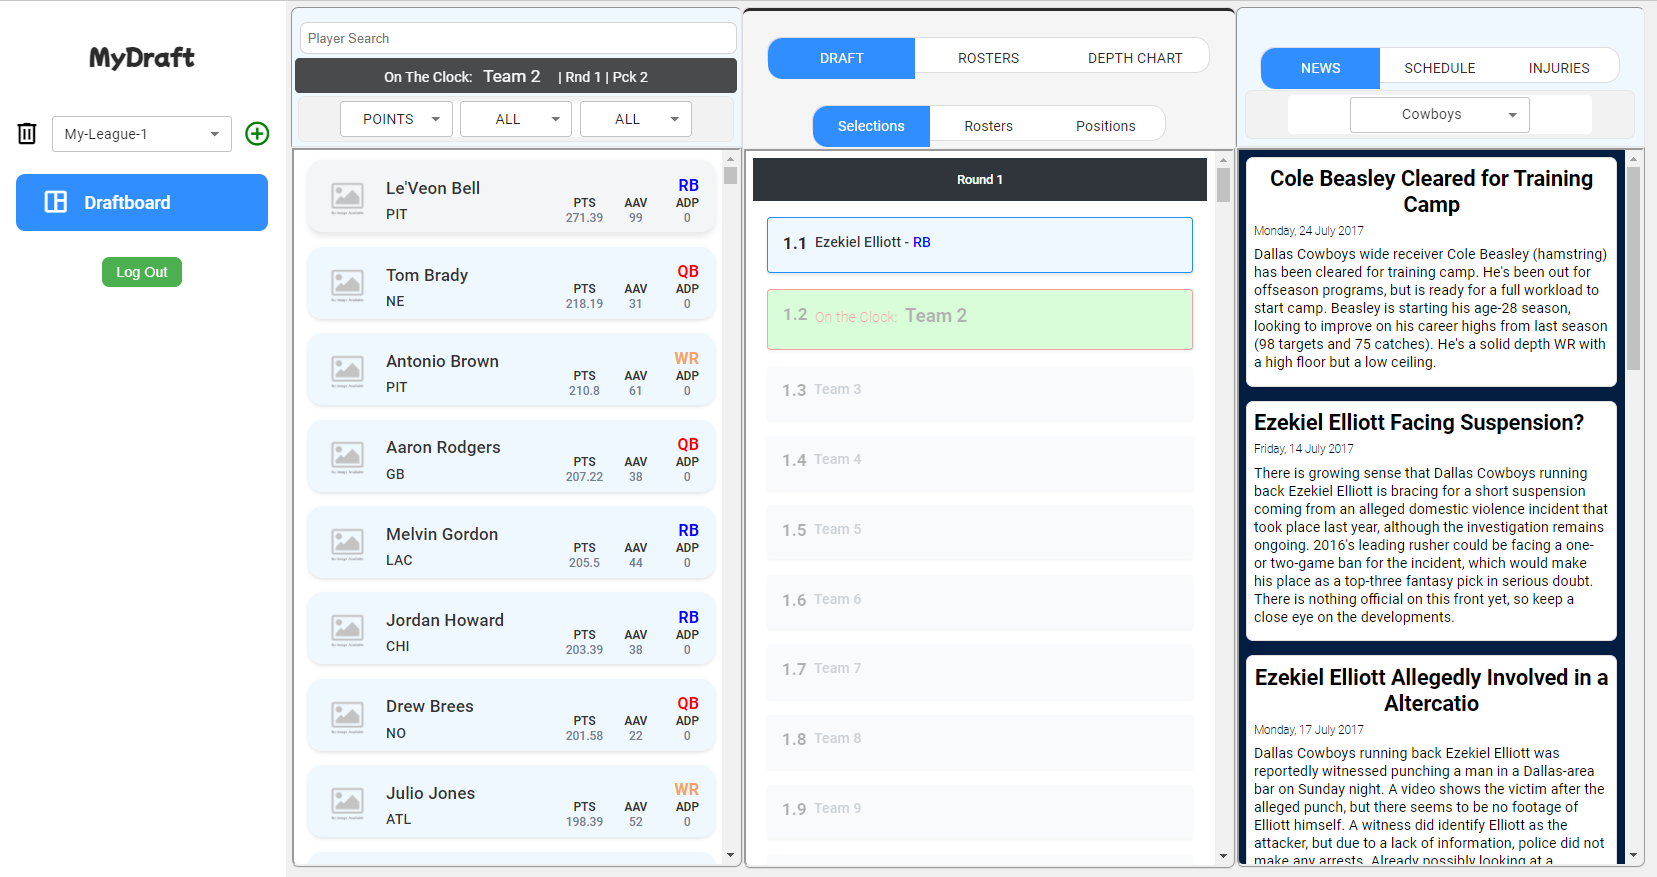
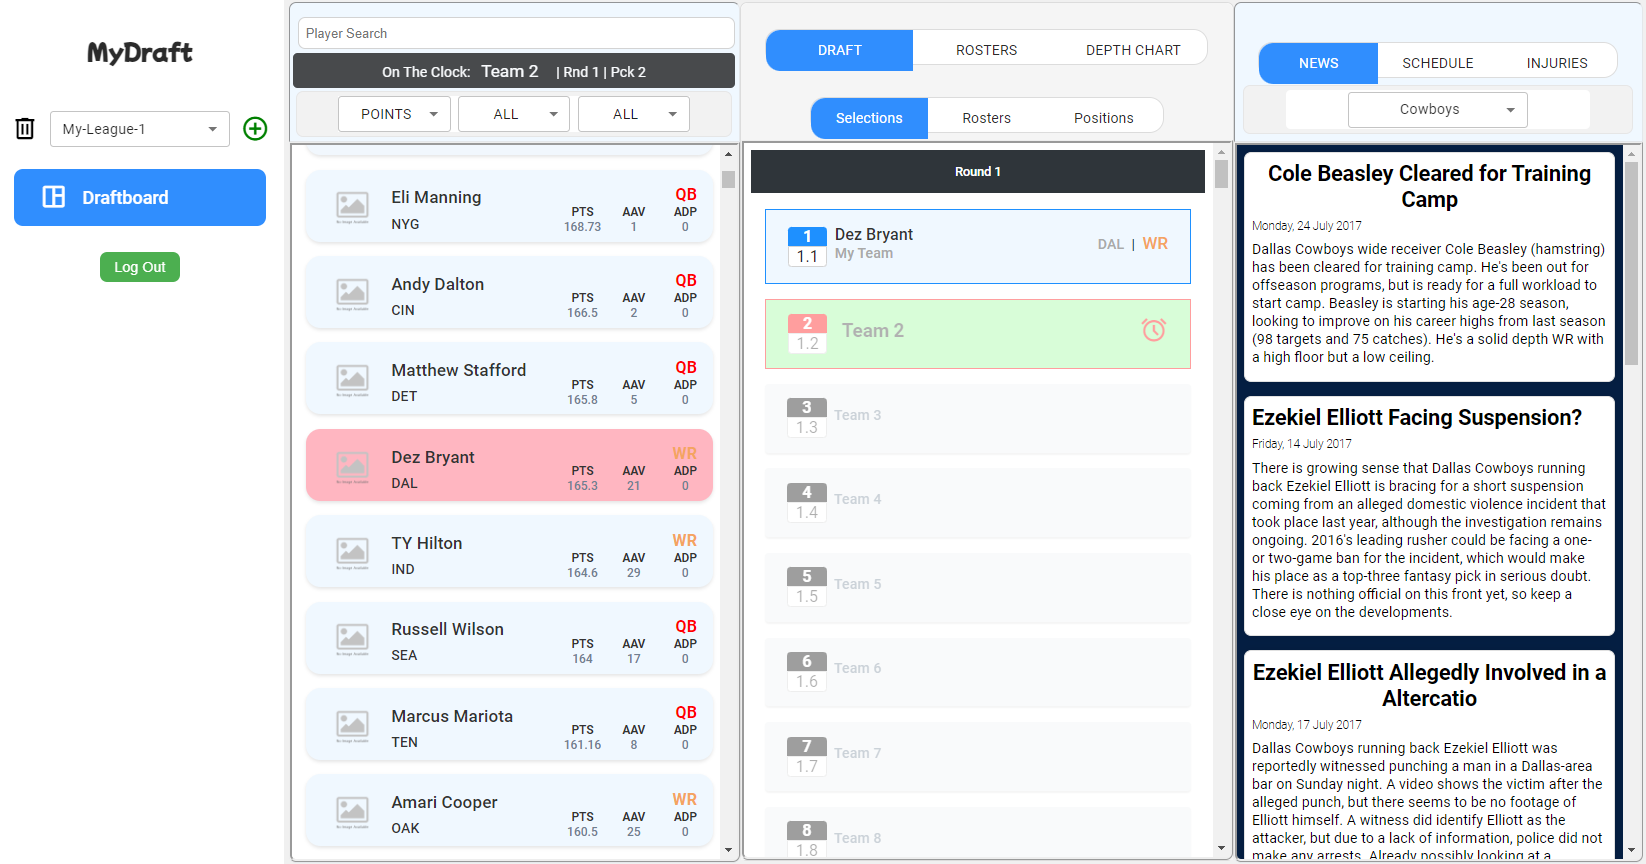
-  New Info Page Image

diff --git a/src/styles/draftSelection.scss b/src/styles/draftSelection.scss
@@ -23,11 +23,7 @@
   }
 
   // Nested elements
-  &__title
-//   &__description
-//   &__price,
-//   &__button 
-  {
+  &__title {
     flex: 1;
     justify-content: space-between;
     margin-left: 0.5rem;
@@ -36,32 +32,6 @@
     margin-bottom: 8px;
     font-weight: 500;
   }
-
-//   &__description {
-//     font-size: 14px;
-//     color: #666;
-//   }
-
-//   &__image {
-//     width: 100%;
-//     height: 200px;
-//     object-fit: cover;
-//     margin-bottom: 1px;
-//   }
-
-//   &__button {
-//     width: 100%;
-//     height: 40px;
-//     border-radius: 4px;
-//     background-color: #f5f5f5;
-//     border: 1px solid #e0e0e0;
-//     font-size: 14px;
-//     cursor: pointer;
-
-//     &:hover {
-//       background-color: #e0e0e0;
-//     }
-//   }
 }
 
 // Modifier classes for different states
@@ -118,7 +88,7 @@
     background-color: white;
     border-bottom-left-radius: 0.25rem;
     border-bottom-right-radius: 0.25rem;
-    border: 1px solid #D3D3D3;
+    border: 1px solid #d3d3d3;
   }
 
   &__otc_item {
@@ -145,10 +115,9 @@
 
   &__player_position {
     font-size: larger;
-}
+  }
 }
 
 .clock-icon {
-    color: #ff0000; /* This is the color for delete-trash */
-    // padding-left: .5rem;
-  }
+  color: #ff0000; /* This is the color for delete-trash */
+}

diff --git a/src/components/draft-info/DraftSelections/DraftPickCardItem.js b/src/components/draft-info/DraftSelections/DraftPickCardItem.js
@@ -41,9 +41,6 @@ const CardInfo = ({ draftPick, otcID, currentPick }) => {
 
   return (
     <div className={className}>
-      {/* <span style={{ fontSize: "1.2rem", fontWeight: "bold" }}>
-        {draftPick.round + "." + draftPick.pickInRound}
-      </span> */}
       <div className="draft-selection-pick-info">
         <span className={pickOverAllClass}>{draftPick.overallPick}</span>
         <span className="draft-selection-pick-info__round">
